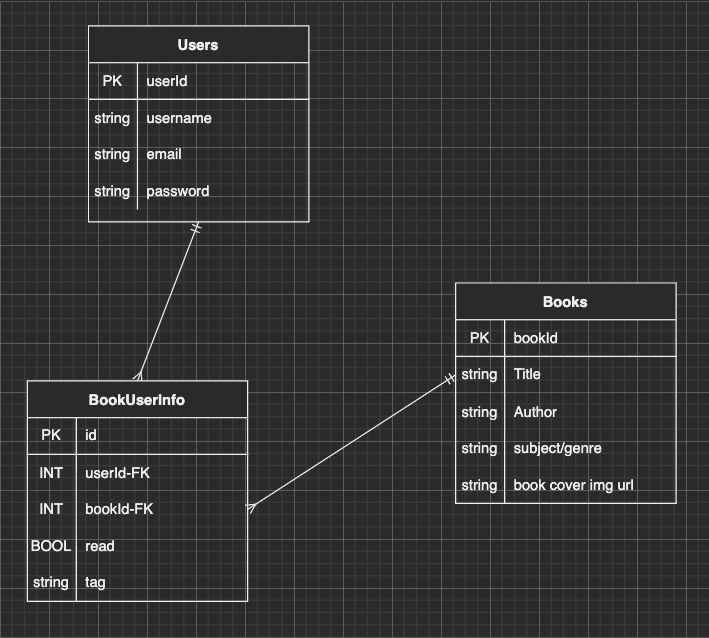
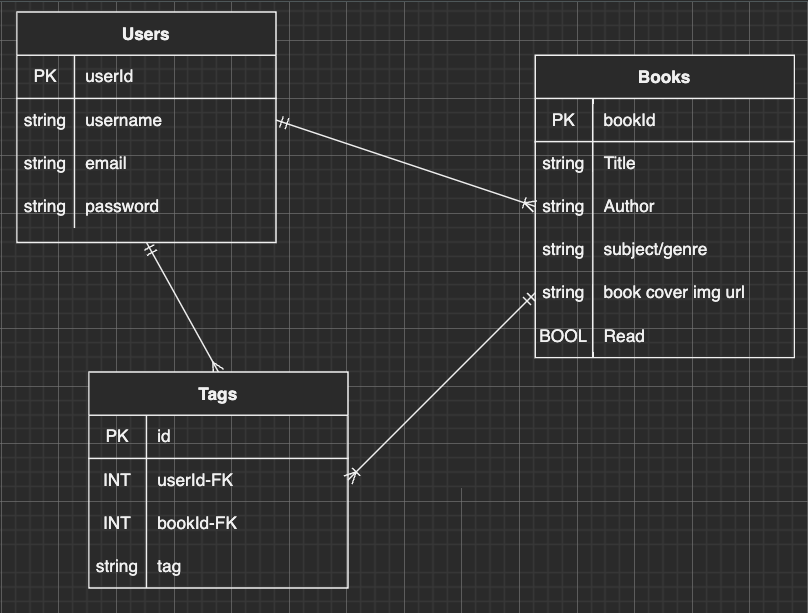
changed ERDs & added PUT & DELETE routes

diff --git a/readme.md b/readme.md
@@ -32,6 +32,8 @@
 | GET | /signup | New \(Read\) | render signup form |
 | POST | /signup |Create \(Create\) | create new user from form |
 | GET | /user/profile | Show \(Read\) | shows user profile |
+| PUT | /books/:id | Update \(Update\) | updates the user's tags on a specific book |
+| DELETE | /books/:id | Destroy \(Delete\) | deletes the specific book from the user's saved books |
 | GET | / | Show \(Read\) | render homepage with search form|
 | GET | /books/:title | Show \(Read\) | renders results from search |
 | GET | /books/:id | Show \(Read\) | renders detailed info on specific book & allows it to be favorited|
